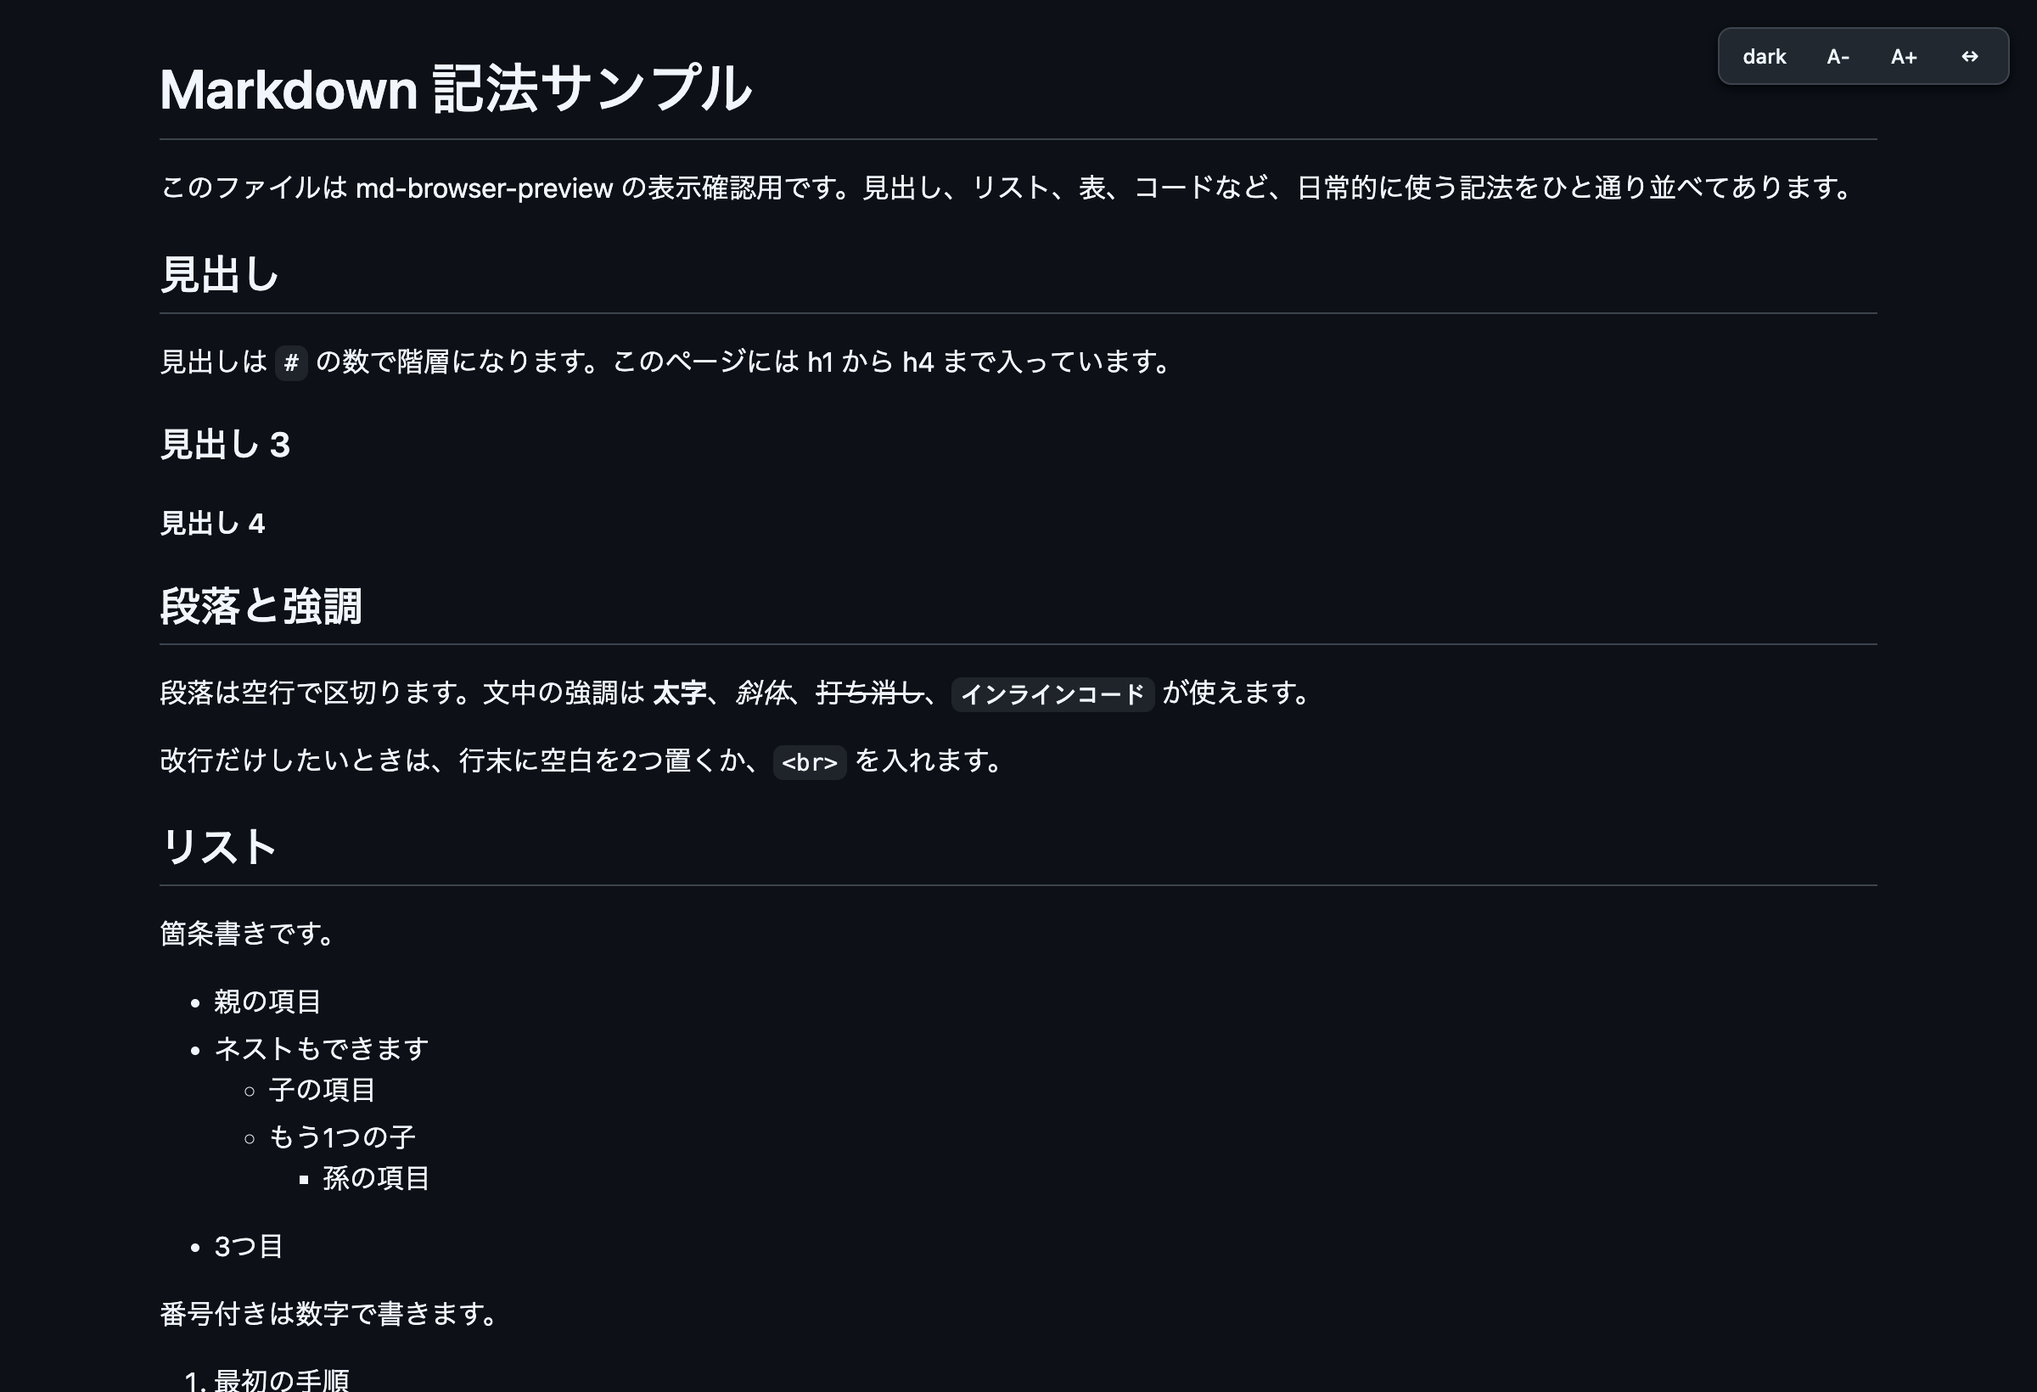
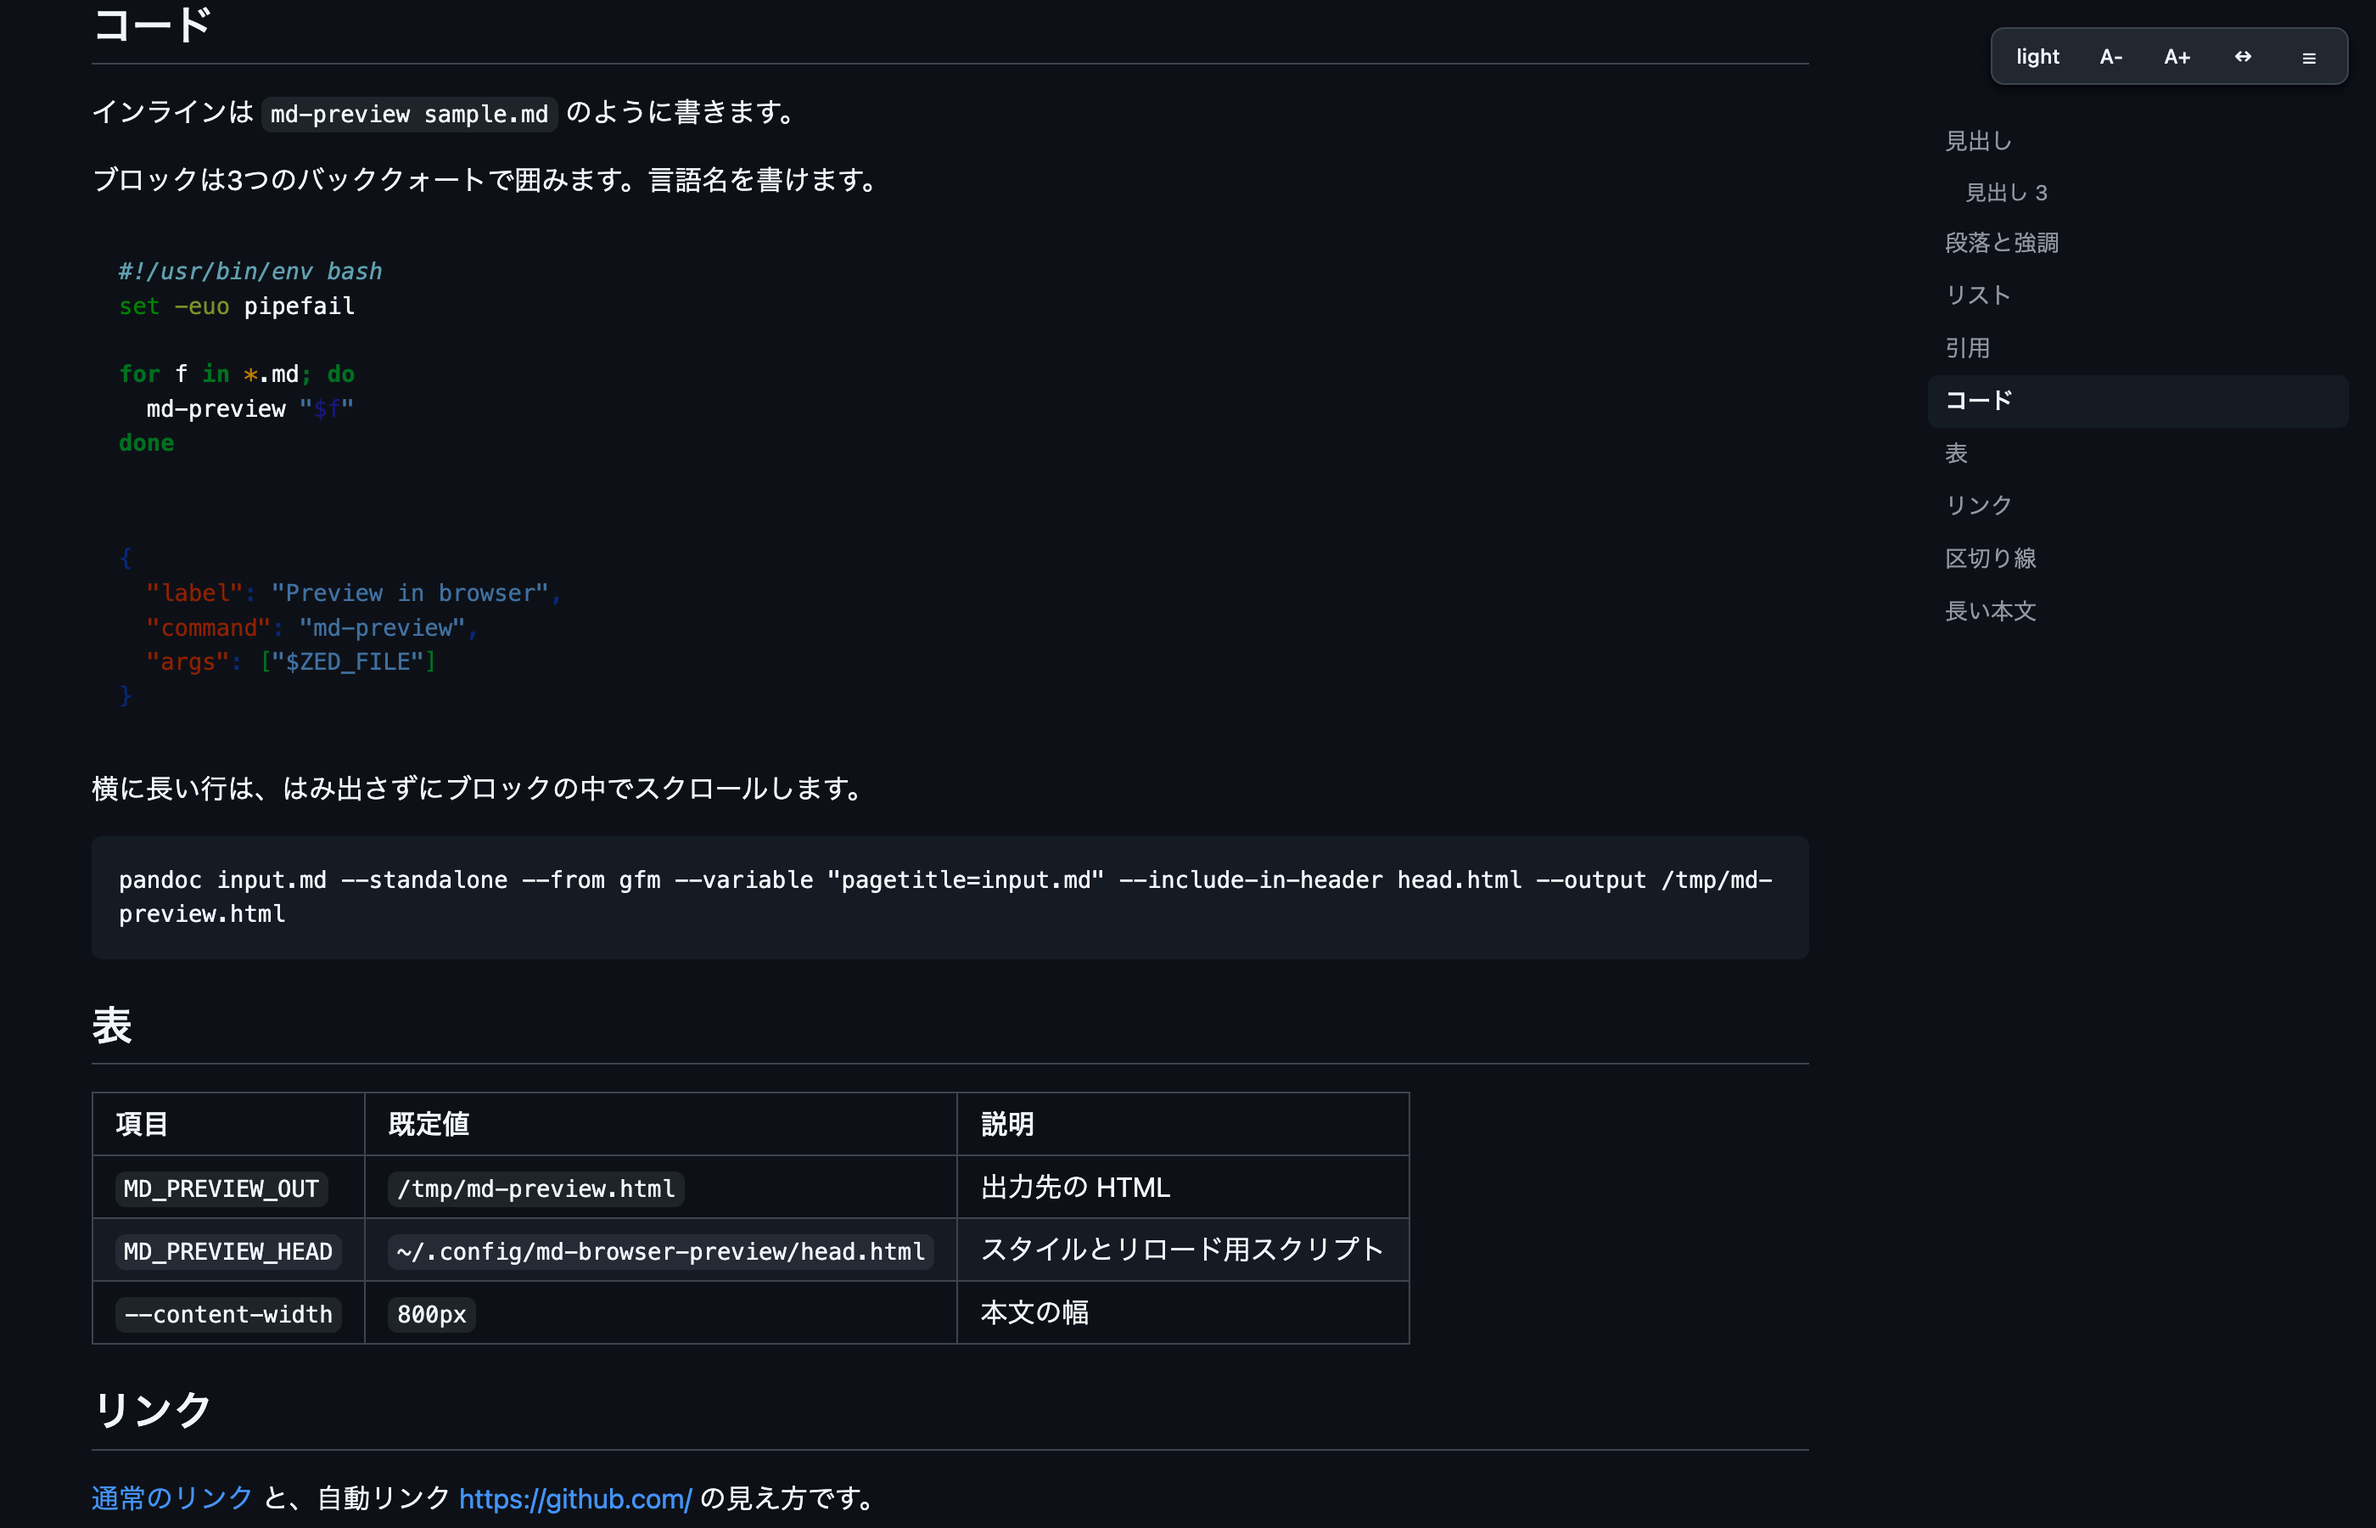
右サイドバーに目次を追加し、本文幅を 800px にする
見出しから目次を組み立ててスクロール位置に追従させる。目次は幅に関係なく
表示し、その分の余白をページ右に確保する。バーから表示を切り替えられる

Claude-Session: https://claude.ai/code/session_01Qj28tgzvzW3ejDLyiUe6Dd

diff --git a/assets/head.html b/assets/head.html
@@ -9,8 +9,8 @@
   :root {
     color-scheme: light;
 
-    /* レイアウト（GitHub の本文と同じ 16px / 1.5、幅 1012px） */
-    --content-width: 1012px;
+    /* レイアウト（文字と行間は GitHub と同じ 16px / 1.5） */
+    --content-width: 800px;
     --font-size: 16px;
     --line-height: 1.5;
     --font-family: -apple-system, BlinkMacSystemFont, "Segoe UI", "Noto Sans",
@@ -109,10 +109,27 @@
   }
   #mdbar button:hover { background: var(--surface); }
   #mdbar button:active { background: var(--border); }
+  /* ==== 目次（右サイドバー） ========================================== */
+  #mdtoc {
+    position: fixed; top: 64px; right: 16px; z-index: 9;
+    width: 248px; max-height: calc(100vh - 96px); overflow-y: auto;
+    padding: 4px 0; font: 13.5px/1.7 var(--font-family); color: var(--muted);
+  }
+  #mdtoc a {
+    display: block; padding: 4px 10px; border-radius: 6px;
+    color: var(--muted); text-decoration: none;
+    white-space: nowrap; overflow: hidden; text-overflow: ellipsis;
+  }
+  #mdtoc a:hover { background: var(--surface); color: var(--fg); text-decoration: none; }
+  #mdtoc a.is-current { background: var(--surface); color: var(--fg); font-weight: 600; }
+  #mdtoc a[data-level="3"] { padding-left: 22px; font-size: 12.5px; }
+  /* 目次は幅に関係なく出す。その分の余白をページ右に確保する */
+  html.has-toc { padding-right: 280px; }
+
   /* ==== 印刷（PDF 保存） ============================================== */
   @page { margin: 18mm; }
   @media print {
-    #mdbar { display: none; }
+    #mdbar, #mdtoc { display: none; }
     /* テーマに関係なく紙はライトで刷る */
     :root, :root[data-theme="dark"] {
       --bg: #ffffff; --surface: #f6f8fa; --border: #d1d9e0;
@@ -142,7 +159,7 @@
     var r = document.documentElement;
     var s = window.__mdSettings || {};
     var THEMES = ['light', 'dark'];
-    var WIDTHS = [1012, 680, 820, 1280];
+    var WIDTHS = [800, 680, 960, 1200];
     var paused = false;
     var printing = false;
     addEventListener('beforeprint', function () { printing = true; });
@@ -151,13 +168,21 @@
     function save() { try { localStorage.setItem('mdPreview', JSON.stringify(s)); } catch (e) {} }
     function fontSize() { return s.fontSize || parseInt(getComputedStyle(r).getPropertyValue('--font-size')) || 16; }
 
+    function applyToc() {
+      var el = document.getElementById('mdtoc');
+      var on = (s.toc !== false) && !!el;
+      if (el) el.style.display = on ? '' : 'none';
+      r.classList.toggle('has-toc', on);
+    }
+
     var bar = document.createElement('div');
     bar.id = 'mdbar';
     bar.innerHTML =
       '<button data-act="theme" title="テーマ"></button>' +
       '<button data-act="dec" title="文字を小さく">A-</button>' +
       '<button data-act="inc" title="文字を大きく">A+</button>' +
-      '<button data-act="width" title="本文の幅">&#8596;</button>';
+      '<button data-act="width" title="本文の幅">&#8596;</button>' +
+      '<button data-act="toc" title="目次">&#9776;</button>';
 
     function render() { bar.querySelector('[data-act=theme]').textContent = r.dataset.theme; }
 
@@ -170,6 +195,9 @@
       } else if (act === 'inc' || act === 'dec') {
         s.fontSize = Math.min(24, Math.max(12, fontSize() + (act === 'inc' ? 1 : -1)));
         r.style.setProperty('--font-size', s.fontSize + 'px');
+      } else if (act === 'toc') {
+        s.toc = (s.toc === false);
+        applyToc();
       } else if (act === 'width') {
         var i = WIDTHS.indexOf(s.width || 780);
         s.width = WIDTHS[(i + 1) % WIDTHS.length];
@@ -184,6 +212,44 @@
 
     document.body.appendChild(bar);
     render();
+
+    // 目次（右サイドバー）。見出しが少ないファイルでは出さない
+    var heads = [].slice.call(document.querySelectorAll('h2[id], h3[id]'));
+    if (heads.length >= 3) {
+      var toc = document.createElement('nav');
+      toc.id = 'mdtoc';
+      var links = {};
+      heads.forEach(function (h) {
+        var a = document.createElement('a');
+        a.href = '#' + h.id;
+        a.textContent = h.textContent;
+        a.title = h.textContent;
+        a.dataset.level = (h.tagName === 'H3') ? '3' : '2';
+        a.addEventListener('click', function (e) {
+          e.preventDefault();
+          h.scrollIntoView({ behavior: 'smooth', block: 'start' });
+        });
+        toc.appendChild(a);
+        links[h.id] = a;
+      });
+      document.body.appendChild(toc);
+      applyToc();
+
+      // いま読んでいる見出しを目立たせる
+      var visible = [];
+      var io = new IntersectionObserver(function (entries) {
+        entries.forEach(function (en) {
+          var id = en.target.id;
+          var i = visible.indexOf(id);
+          if (en.isIntersecting) { if (i < 0) visible.push(id); }
+          else if (i >= 0) { visible.splice(i, 1); }
+        });
+        visible.sort(function (a, b) { return heads.findIndex(function (h) { return h.id === a; }) - heads.findIndex(function (h) { return h.id === b; }); });
+        var current = visible[0];
+        Object.keys(links).forEach(function (id) { links[id].classList.toggle('is-current', id === current); });
+      }, { rootMargin: '0px 0px -75% 0px' });
+      heads.forEach(function (h) { io.observe(h); });
+    }
 
     // スクロール位置はブラウザ標準の復元に任せる（手で保存するとカクつく）
     var lastScroll = 0;

diff --git a/README.md b/README.md
@@ -48,7 +48,9 @@ md-preview --path    # print the output HTML path
 
 ## In-page controls
 
-A small bar sits in the top-right corner: theme, font size, and content width. Choices are stored in the browser, so they survive reloads and apply to every file you preview afterwards. Nothing is written to disk and no server is involved.
+A small bar sits in the top-right corner: theme, font size, content width, and a toggle for the table of contents. Choices are stored in the browser, so they survive reloads and apply to every file you preview afterwards. Nothing is written to disk and no server is involved.
+
+The table of contents is built from the headings of the current file and follows your position as you scroll. It appears when a file has at least three headings.
 
 ![Dark theme](docs/preview-dark.png)
 
@@ -132,8 +134,6 @@ Everything visual lives in `~/.config/md-browser-preview/head.html`: a settings 
 ```sh
 md-preview sample.md
 ```
-
-![Code blocks and tables](docs/preview-code.png)
 
 ## How it works
 

diff --git a/sample.md b/sample.md
@@ -80,7 +80,7 @@ pandoc input.md --standalone --from gfm --variable "pagetitle=input.md" --includ
 |---|---|---|
 | `MD_PREVIEW_OUT` | `/tmp/md-preview.html` | 出力先の HTML |
 | `MD_PREVIEW_HEAD` | `~/.config/md-browser-preview/head.html` | スタイルとリロード用スクリプト |
-| `--content-width` | `1012px` | 本文の幅 |
+| `--content-width` | `800px` | 本文の幅 |
 
 ## リンク
 
